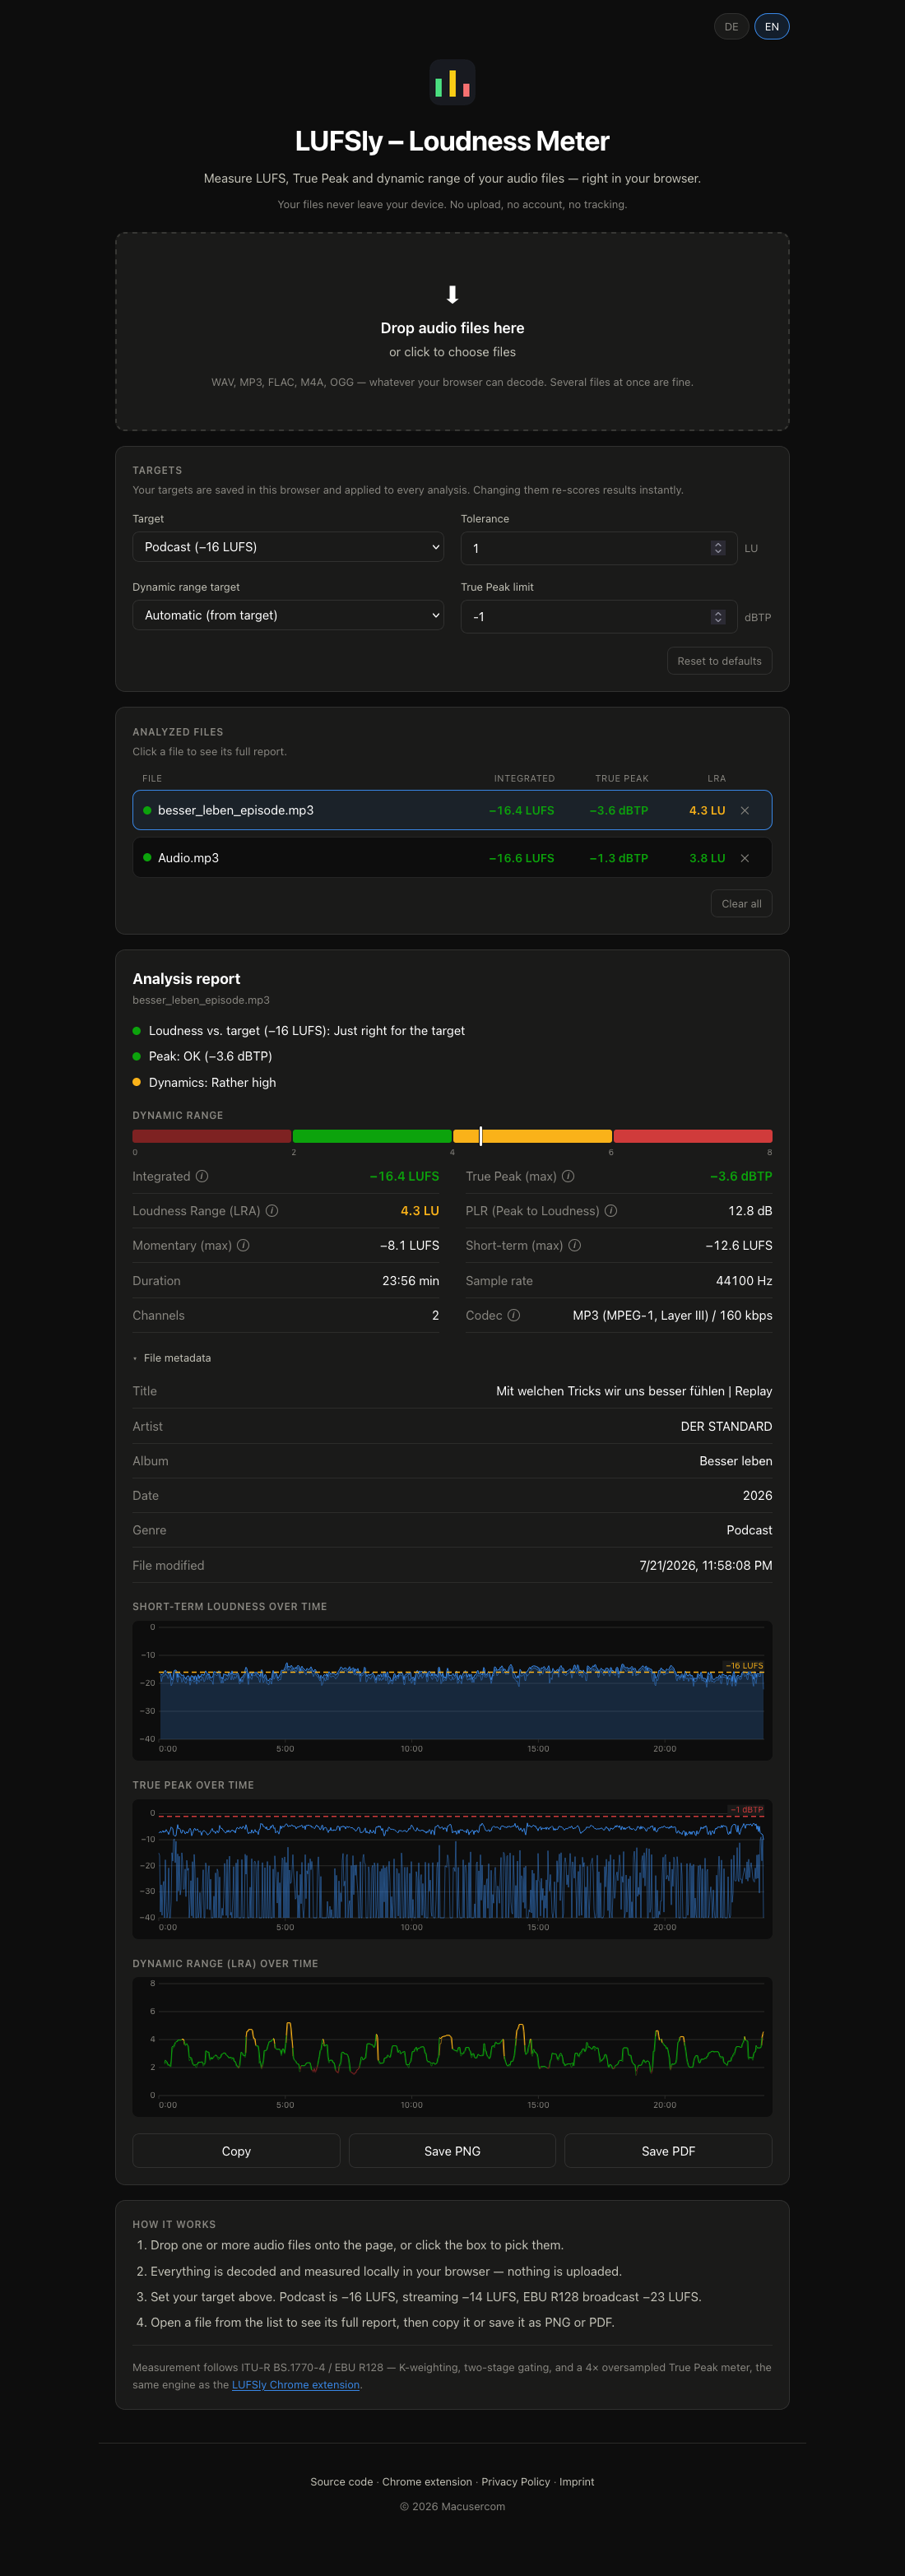
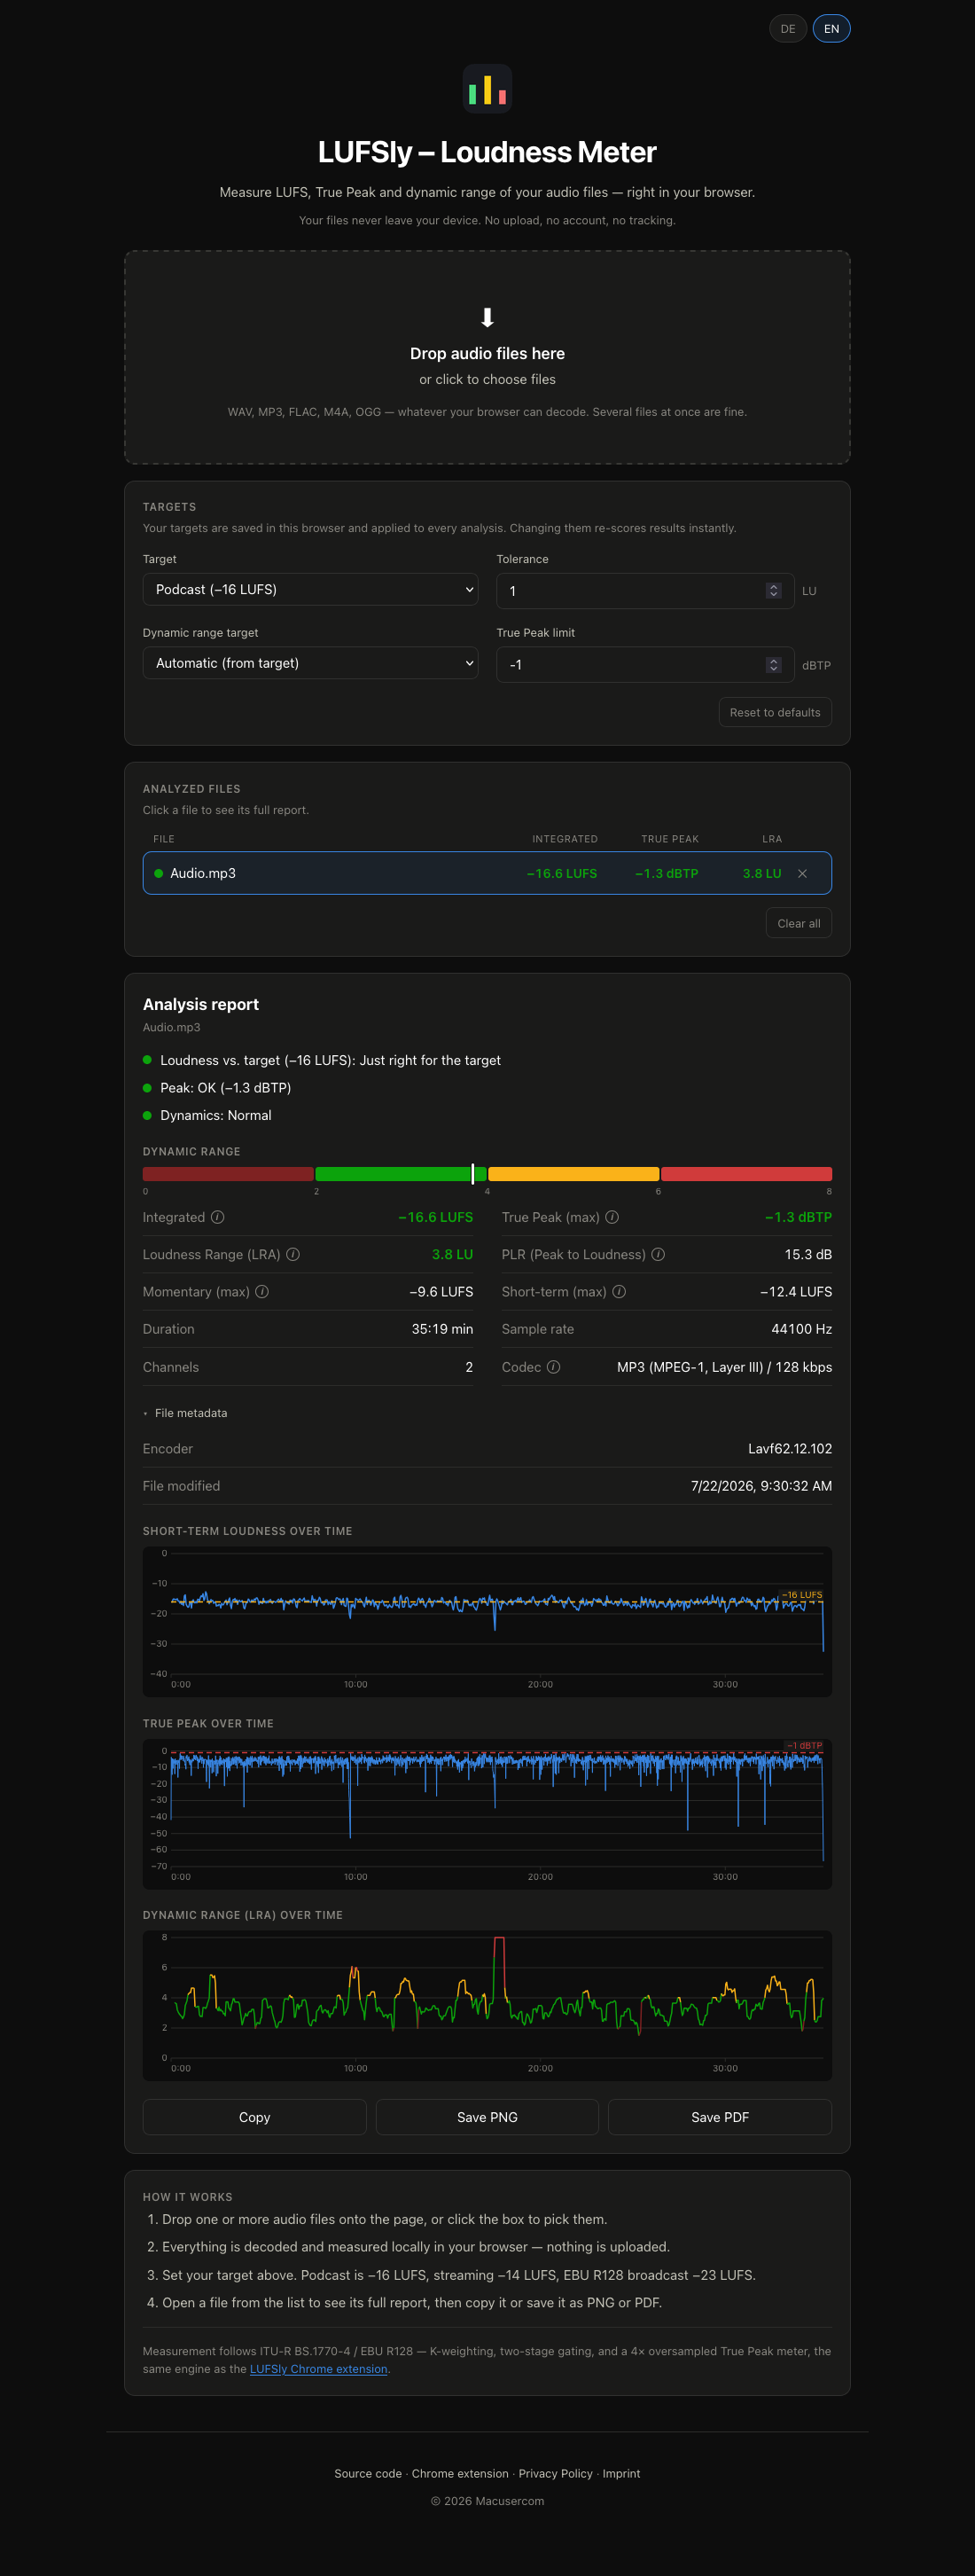
Fix graph, update README

diff --git a/report.js b/report.js
@@ -757,21 +757,10 @@ export function initReport({ fmt, drBand, peakClass, loudnessVerdict, getPreset,
   //   bandOf — colours the curve per point, echoing the DR bar's bands.
   function drawChartInto(ctx, rect, series, opts) {
     const { values, t0, hop } = series;
-    const { yMax, step, ticks, durationSec, target, limit, unit, bandOf, ppx, lineWidth = 1.5 } = opts;
-
-    // The −40 floor is the useful default and keeps files comparable, but a
-    // quiet recording would clamp flat onto it and look identical to silence.
-    // Drop the floor only when nothing reaches it, keeping a ~20 dB window
-    // around the content so the shape is visible; the changed axis labels are
-    // the signal that this is not the usual scale.
+    const { step, ticks, durationSec, target, limit, unit, bandOf, ppx, lineWidth = 1.5 } = opts;
     let yMin = opts.yMin;
-    if (!ticks && values.length) {
-      let dataMax = -Infinity;
-      for (const v of values) if (isFinite(v) && v > dataMax) dataMax = v;
-      if (isFinite(dataMax) && dataMax < yMin + 3) {
-        yMin = Math.max(-100, Math.floor((dataMax - 20) / 10) * 10);
-      }
-    }
+    let yMax = opts.yMax;
+
     ctx.save();
     ctx.fillStyle = col('--page');
     ctx.fillRect(rect.x, rect.y, rect.w, rect.h);
@@ -782,6 +771,34 @@ export function initReport({ fmt, drBand, peakClass, loudnessVerdict, getPreset,
     const span = durationSec > 0 ? durationSec : 1;
     const xAtTime = (t) => rect.x + padL + Math.min(1, Math.max(0, t / span)) * plotW;
     const xAt = (i) => xAtTime(t0 + i * hop);
+
+    // Decimate before choosing the axis: bucketing is by x only, so this gives
+    // the values that will actually be drawn. Ranging on those, rather than the
+    // raw series, means a brief silence inside a loud column (masked by that
+    // column's maximum) never drags the floor, while a dip that genuinely fills
+    // a column does. Reused for the stroke below so nothing is decimated twice.
+    const points = values.length >= 2 ? decimate(values, xAt, rect.x + padL, plotW, ppx) : [];
+
+    // The default range keeps files comparable, but data outside it must still
+    // be shown rather than clamped flat onto an edge. Fixed-tick charts (DR)
+    // keep their scale; the others extend to fit.
+    if (!ticks && points.length) {
+      let lo = Infinity, hi = -Infinity;
+      for (const pt of points) { if (pt.v < lo) lo = pt.v; if (pt.v > hi) hi = pt.v; }
+      if (target != null) { lo = Math.min(lo, target); hi = Math.max(hi, target); }
+      if (limit != null) { lo = Math.min(lo, limit); hi = Math.max(hi, limit); }
+      if (isFinite(hi) && hi < yMin + 3) {
+        // Everything sits below the floor (a quiet recording): window around it
+        // rather than pinning it to the bottom edge.
+        yMin = Math.max(-120, Math.floor((hi - 20) / 10) * 10);
+      } else if (isFinite(lo)) {
+        // Extend the floor down to include dips below the default.
+        yMin = Math.min(yMin, Math.max(-120, Math.floor(lo / 10) * 10));
+      }
+      // And extend the ceiling up for peaks above it (true peak can exceed 0).
+      if (isFinite(hi)) yMax = Math.max(yMax, Math.ceil(hi / 10) * 10);
+    }
+
     const yAt = (v) => rect.y + padT + (1 - (Math.max(yMin, Math.min(yMax, v)) - yMin) / (yMax - yMin)) * plotH;
 
     ctx.strokeStyle = col('--grid');
@@ -807,8 +824,7 @@ export function initReport({ fmt, drBand, peakClass, loudnessVerdict, getPreset,
 
     drawTimeAxis(ctx, rect, padL, padR, padB, span, xAtTime);
 
-    if (values.length >= 2) {
-      const points = decimate(values, xAt, rect.x + padL, plotW, ppx);
+    if (points.length >= 2) {
       ctx.lineWidth = lineWidth;
       ctx.lineJoin = 'round';
       // One stroke per run of a single colour: single-hue charts are one run;

diff --git a/README.md b/README.md
@@ -63,8 +63,6 @@ Then open [http://localhost:8000](http://localhost:8000) in your browser.
 - Reports, charts and the PNG/PDF export are drawn on a `<canvas>`; the PDF is written by hand, so nothing is loaded from a CDN
 - Settings are kept in `localStorage`
 
-No data ever leaves your device. Built as a vibe coding project with [Claude](https://claude.ai).
-
 
 ## Images
 
@@ -75,8 +73,8 @@ No data ever leaves your device. Built as a vibe coding project with [Claude](ht
       <sub><b>Start</b> — drop files and set your targets</sub>
     </td>
     <td width="33%" align="center">
-      <img src="images/image2.png" alt="Analyzed files and report" width="100%"><br>
-      <sub><b>Analysis</b> — batch list, metrics and the three charts</sub>
+      <img src="images/image2.png" alt="Analysis report" width="100%"><br>
+      <sub><b>Analysis</b> — metrics, metadata and the three charts</sub>
     </td>
     <td width="33%" align="center">
       <img src="images/image3.png" alt="Exported report" width="100%"><br>